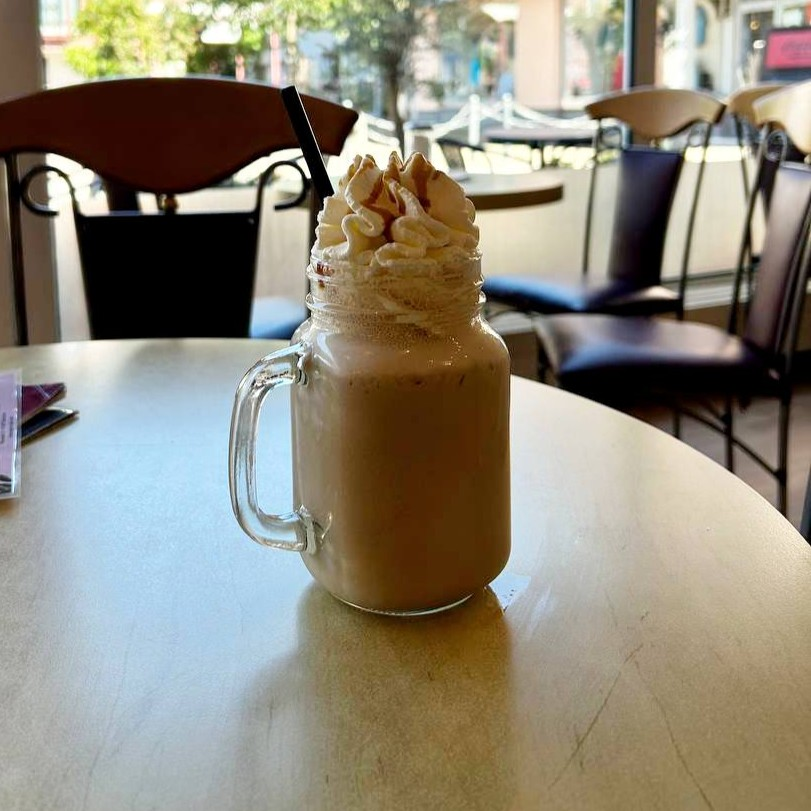
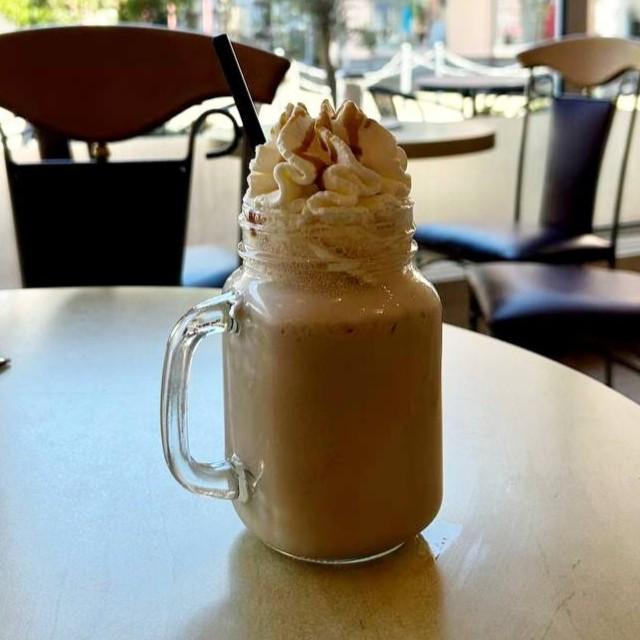
ich habe klein fix gemacht

diff --git a/menu.html b/menu.html
@@ -218,6 +218,71 @@
             </div>
           </div>
         </div>
+        <div class="first__menu">
+          <div class="menu container">
+            <picture class="menu__pic">
+              <source
+                srcset="./src/images/general/paninni.jpg 1x"
+                media="(min-width: 1200px)"
+              />
+
+              <img
+                srcset="./src/images/general/paninni.jpg 1x"
+                src="./src/images/general/paninni.jpg"
+                alt="Getränk"
+                width="400"
+              />
+            </picture>
+            <div class="menu__wrapper">
+              <h2 class="menu__title products__title">Mehr als nur Eis</h2>
+              <p class="products__subtitle">
+                Neben unserem hausgemachten Eis erwarten Sie frisch belegte
+                Panini, knusprige Flammkuchen und köstliche Pasta – perfekt für
+                den kleinen oder großen Hunger.
+              </p>
+            </div>
+          </div>
+        </div>
+        <div class="first__menu">
+          <div class="menu container">
+            <div class="menub__container-photo">
+              <picture class="menu__pic erst">
+              <source
+                srcset="./src/images/general/Frappuccino.jpg 1x"
+                media="(min-width: 1200px)"
+              />
+
+              <img
+                srcset="./src/images/general/Frappuccino.jpg 1x"
+                src="./src/images/general/Frappuccino.jpg"
+                alt="Getränke"
+                width="400"
+              />
+            </picture>
+            <picture class="menu__pic">
+              <source
+                srcset="./src/images/general/blonderengel.jpg 1x"
+                media="(min-width: 1200px)"
+              />
+
+              <img
+                srcset="./src/images/general/blonderengel.jpg 1x"
+                src="./src/images/general/blonderengel.jpg"
+                alt="Getränke"
+                width="400"
+              />
+            </picture>
+            </div>
+            <div class="menu__wrapper">
+              <h2 class="menu__title products__title">Eisgetränke</h2>
+              <p class="products__subtitle">
+                Cremig, erfrischend und mit viel Liebe zubereitet. Von
+                klassischem Eiskaffee bis zu Frappuccinos und unseren besonderen
+                Eis-Kreationen – der perfekte Genuss für warme Tage.
+              </p>
+            </div>
+          </div>
+        </div>
       </section>
     </main>
     <footer class="footer container">

diff --git a/src/style.css b/src/style.css
@@ -478,6 +478,36 @@ label {
   }
 }
 
+.menub__container-photo {
+  display: block;
+}
+
+.menub__container-photo .menu__pic {
+  display: block;
+  width: 300px;
+  height: 300px;
+  margin-left: auto;
+  margin-right: auto;
+  @media screen and (max-width: 479px) {
+    max-width: 100%;
+  }
+  @media screen and (max-width: 767px) {
+    margin-bottom: 40px;
+  }
+}
+
+.menub__container-photo .menu__pic.erst {
+  margin-bottom: 20px;
+}
+
+.menub__container-photo .menu__pic img {
+  width: 300px;
+  height: 300px;
+  @media screen and (max-width: 479px) {
+    max-width: 100%;
+  }
+}
+
 .products {
   padding-top: 120px;
   padding-bottom: 60px;
